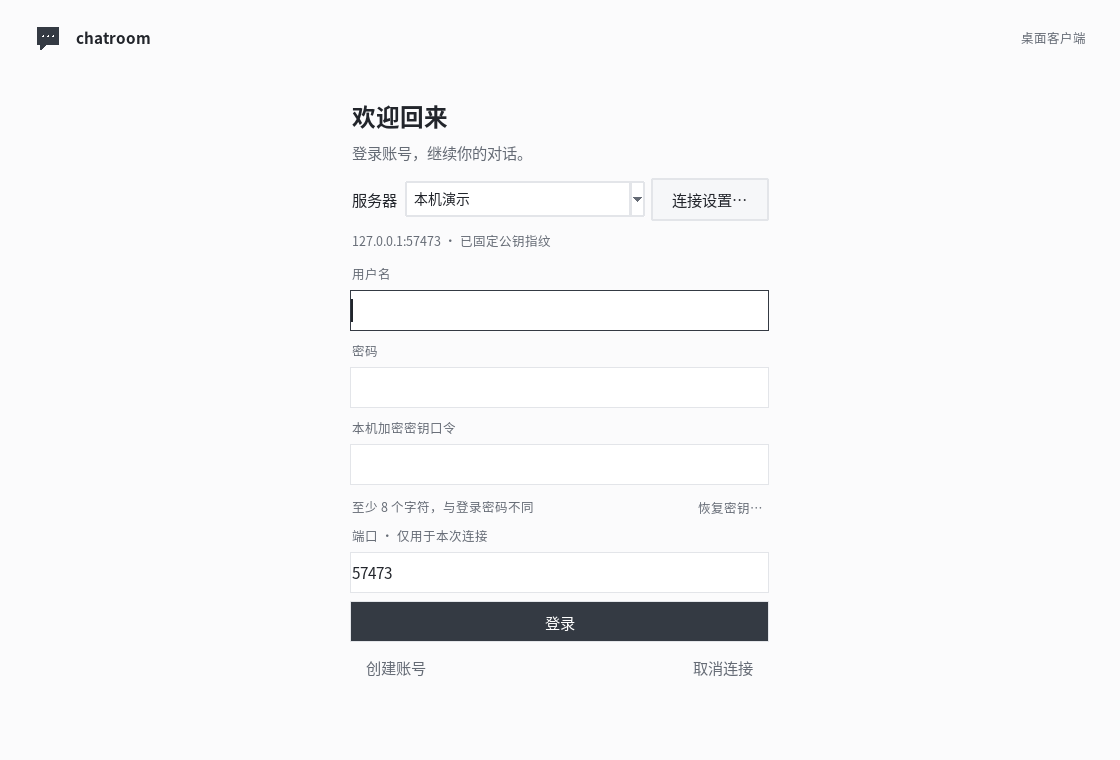
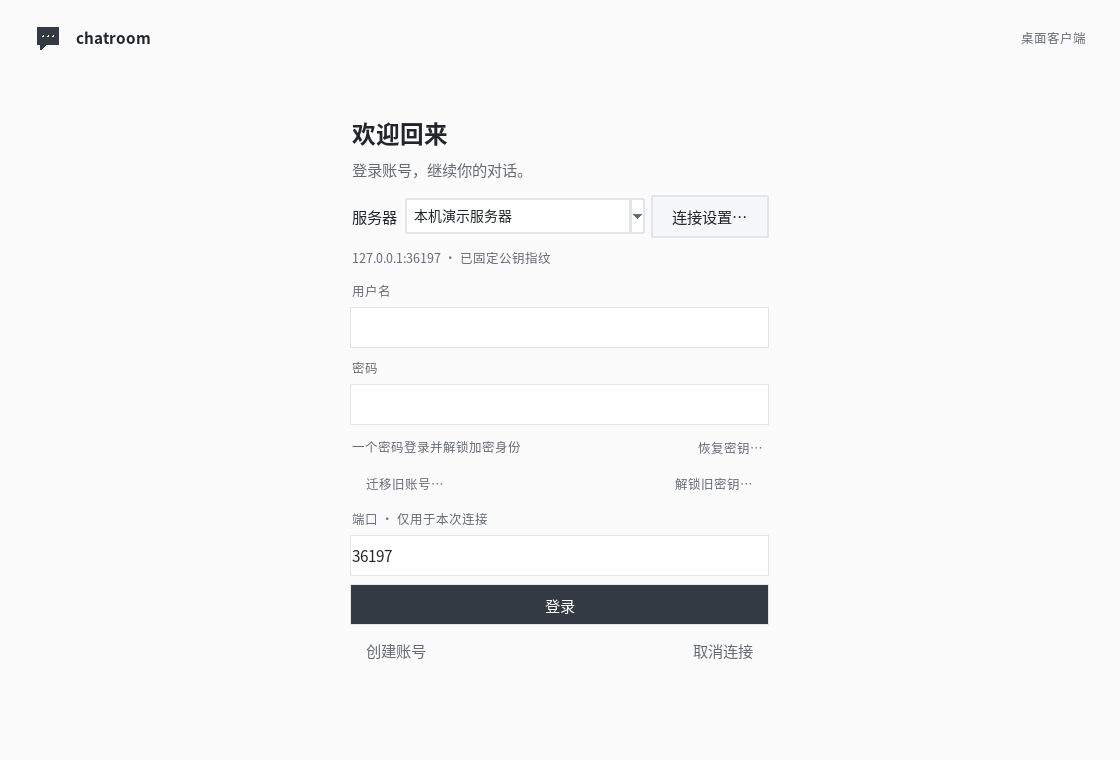
Refresh README screenshots for the v1.3.0 single-password client

diff --git a/docs/images/README.md b/docs/images/README.md
@@ -1,24 +1,21 @@
 # 界面截图 / Interface screenshots
 
-**历史截图：以下为 v1.2.1，包含旧版独立本机口令输入，不作为 v1.3.0 单密码界面截图。新版操作见[单密码指南](../SINGLE_PASSWORD.md)。**
+这些图片是已发布 v1.3.0 客户端的真实窗口截图，展示单密码登录、旧账号迁移与旧密钥解锁入口、双栏会话布局、可收起的在线用户面板及端到端加密消息。具体操作见[单密码指南](../SINGLE_PASSWORD.md)。
 
-**Historical captures: these v1.2.1 images include the former separate local passphrase and do not illustrate the v1.3.0 single-password interface. See the [single-password guide](../SINGLE_PASSWORD.md).**
+These real window captures show the released v1.3.0 client: single-password login, explicit legacy-account migration and legacy-key unlock entries, two-column conversations, a collapsible online-users panel, and end-to-end encrypted messages. See the [single-password guide](../SINGLE_PASSWORD.md).
 
-这些图片是 v1.2.1 雾白与石墨桌面界面的真实窗口截图，展示统一的登录表单、双栏会话布局、可收起的在线用户面板及端到端加密消息。
-
-These real window captures show the v1.2.1 fog-white and graphite desktop interface: a consistent login form, two-column conversations, a collapsible online-users panel and end-to-end encrypted messages.
-
-- 采集日期 / Capture date: 2026-10-21
-- 客户端 / Client: v1.2.1, UI source included in the `v1.2.1` release
-- 环境 / Environment: Linux, Python 3.13, Tk 8.6, 1120 × 760 client window
-- [登录 / Login](login.png): server profiles, local key passphrase and key restore entry
+- 采集日期 / Capture date: 2026-10-22
+- 客户端 / Client: v1.3.0
+- 源码 / Source: [38699452cda8d5cbdd8d50d1efdb762b18de874d](https://github.com/starryuchuu/chatroom/commit/38699452cda8d5cbdd8d50d1efdb762b18de874d), the released v1.3.0 source
+- 环境 / Environment: Linux, Python 3.13.5, Tk 8.6.16, 1120 × 760 client window
+- [登录 / Login](login.png): single-password login and server profiles, with “迁移旧账号…” (migrate legacy account), “解锁旧密钥…” (unlock legacy keys), and key recovery entries
 - [主界面 / Main](main.png): friends, groups, unread previews, notification controls and encryption status
 - [聊天 / Chat](chat.png): messages delivered using real end-to-end encryption, with the key management entry visible
 
-采集时使用临时本地 Python 服务端、独立配置目录和新生成的演示密钥。`alice`、`bob`、`carol`、群组和消息均为虚构数据；地址为本机回环地址。截图仅包含应用窗口，不含桌面、个人账号、私人聊天、密码、私钥或文件路径。PNG 不附带文本或拍摄元数据。
+采集时使用临时本地 Python 服务端、全新的独立配置和演示密钥。`demo_alice`、`demo_bob`、`demo_carol`、群组和消息均为虚构数据；地址为本机回环地址。截图仅包含应用窗口，不含桌面、个人账号、私人聊天、密码、私钥、个人姓名、个人邮箱或文件路径。PNG 不附带文本或拍摄元数据。
 
-Capture used a temporary local Python server, isolated client settings and newly generated demo keys. `alice`, `bob`, `carol`, the group and all messages are synthetic. Only the application window is captured, using a loopback address; no desktop, personal accounts, private conversations, passwords, private keys or file paths are shown. PNG files carry no text or capture metadata.
+Capture uses a temporary local Python server, fresh isolated settings and newly generated demo keys. `demo_alice`, `demo_bob`, `demo_carol`, the group and all messages are synthetic. Only the application window is captured, using a loopback address; no desktop, personal accounts, private conversations, passwords, private keys, personal names, email addresses or file paths are shown. PNG files carry no text or capture metadata.
 
-重新采集时，应从当前源码启动客户端，使用新的临时演示账号和配置，分别拍摄空白登录页、收到演示消息后的主界面及真实加密消息往返后的聊天页。保留实际控件与状态，不将联系人首次信任标记为已核对；逐张检查隐私和文字可读性，并同步更新中英文 README 与此处的采集日期和源码版本。
+重新采集时，应从已标明版本的源码启动客户端，使用新的临时演示账号和配置，分别拍摄空白登录页、收到演示消息后的主界面及真实加密消息往返后的聊天页。保留实际控件与状态，不将联系人首次信任标记为已核对；逐张检查隐私和文字可读性，并同步更新中英文 README 与此处的采集日期、环境和源码版本。
 
-To refresh these images, run the current client with fresh temporary demo accounts and settings. Capture the empty login page, the main view after receiving demo messages, and a conversation after a real encrypted exchange. Preserve the actual controls and status, including unverified contact trust. Review privacy and readability, then update both READMEs and the date and source revision here.
+To refresh these images, run the documented source revision with fresh temporary demo accounts and settings. Capture the empty login page, the main view after receiving demo messages, and a conversation after a real encrypted exchange. Preserve the actual controls and status, including unverified contact trust. Review privacy and readability, then update both READMEs and the date, environment and source revision here.

diff --git a/RELEASE_NOTES.md b/RELEASE_NOTES.md
@@ -26,6 +26,6 @@
 - Python 新增固定运行时依赖 `wasmtime==50.0.1`；Go 使用 `wazero` 执行同一核心。普通源码包已包含预编译 `.wasm`，运行 Python 只需安装 `requirements.txt`，无需 Rust。开发者重建核心需 Rust 1.87+ 和 `wasm32-unknown-unknown`，执行 `python scripts/build_opaque.py` 后同步更新两份 WASM。
 - 服务端自动建立 `opaque_meta` 与 `opaque_accounts`，OPAQUE setup、账号记录和加密身份备份继续受现有存储密钥保护。已有 OPAQUE 账号却缺少 setup 时拒绝启动；恢复或切换 Python / Go 必须保留同一数据库、存储密钥及 RSA 身份，禁止交给旧服务端运行。
 - 尚未迁移的账号保留显式旧协议兼容路径；原有端到端身份的明文降级限制仍生效。旧历史保留且不会追溯加密。v1.3.0 正常客户端不能连接 v1.2.x 或更早的服务端。
-- Windows / Linux 客户端、Python 服务端和 Go 多平台附件随发布工作流构建，位于 [v1.3.0 发布页](https://github.com/starryuchuu/chatroom/releases/tag/v1.3.0)；源码包为 `chatroom-v1.3.0-client.zip` 和 `chatroom-v1.3.0-source.zip`，下载后使用同页 `SHA256SUMS` 校验。当前 README 截图保留自 v1.2.1，展示旧界面，不作为新版单密码流程截图。
+- Windows / Linux 客户端、Python 服务端和 Go 多平台附件随发布工作流构建，位于 [v1.3.0 发布页](https://github.com/starryuchuu/chatroom/releases/tag/v1.3.0)；源码包为 `chatroom-v1.3.0-client.zip` 和 `chatroom-v1.3.0-source.zip`，下载后使用同页 `SHA256SUMS` 校验。README 截图已于 2026-10-22 从已发布 v1.3.0 源码实拍更新，展示单密码登录、旧账号迁移与旧密钥解锁入口；拍摄环境与演示数据见[截图说明](https://github.com/starryuchuu/chatroom/blob/master/docs/images/README.md)。
 
 使用步骤与恢复边界见[单密码指南](https://github.com/starryuchuu/chatroom/blob/master/docs/SINGLE_PASSWORD.md)和[端到端加密说明](https://github.com/starryuchuu/chatroom/blob/master/docs/END_TO_END_ENCRYPTION.md)。

diff --git a/README_en.md b/README_en.md
@@ -40,13 +40,13 @@ This project implements an encrypted desktop chat room with Python and Go server
 
 - 🖼 **Interface Showcase**
   - Login Interface
-    ![Historical v1.2.1 login interface with a separate local encryption passphrase](docs/images/login.png)
+    ![v1.3.0 single-password login with legacy account migration and old-key unlock actions](docs/images/login.png)
   - Main Page
     ![Main interface with unread counts, conversation previews and notifications](docs/images/main.png)
   - Chat Interface
     ![Chat interface with end-to-end encrypted messages and key management](docs/images/chat.png)
 
-  These are historical v1.2.1 Linux screenshots captured on 2026-10-21. The separate local passphrase shown there is not part of normal v1.3.0 login. They have not yet been replaced with v1.3.0 screenshots. Accounts, groups and messages are synthetic demo data on a loopback connection. Fonts and window appearance vary by operating system. See [screenshot notes](docs/images/README.md).
+  Captured from the released v1.3.0 source (`38699452cda8d5cbdd8d50d1efdb762b18de874d`) on 2026-10-22, using Linux, Python 3.13.5, Tk 8.6.16 and 1120 × 760 windows. The login screen shows one password field and the **迁移旧账号…** and **解锁旧密钥…** actions. The demo uses a temporary local Python server, fresh keys and configuration, and synthetic accounts `demo_alice`, `demo_bob` and `demo_carol`. Fonts and window appearance vary by operating system. See [screenshot notes](docs/images/README.md).
 
 - 🛠 **Technical Stack**
   - Python 3.11+ (Client/Server)

diff --git a/README.md b/README.md
@@ -29,9 +29,9 @@
 
 | 登录界面 | 主界面 | 聊天界面 |
 |---------|--------|---------|
-| ![登录界面：服务器配置与本机加密密钥口令](docs/images/login.png) | ![主界面：未读计数、会话摘要和消息提醒](docs/images/main.png) | ![聊天界面：端到端加密消息与密钥管理入口](docs/images/chat.png) |
+| ![v1.3.0 登录界面：单密码登录、旧账号迁移与旧密钥解锁入口](docs/images/login.png) | ![主界面：未读计数、会话摘要和消息提醒](docs/images/main.png) | ![聊天界面：端到端加密消息与密钥管理入口](docs/images/chat.png) |
 
-以下截图于 2026-10-21 使用 v1.2.1 客户端在 Linux 上实拍，保留旧版双口令界面，**不是 v1.3.0 单密码流程截图**。其展示服务器配置、旧本机密钥口令、未读摘要和端到端加密聊天。账号、群组和消息均为虚构演示数据，连接地址仅为本机回环地址；不同系统的字体和窗口外观可能有所差异。详见[截图说明](docs/images/README.md)。
+以下截图于 2026-10-22 使用已发布的 v1.3.0 客户端在 Linux 上实拍，展示单密码登录、“迁移旧账号…”与“解锁旧密钥…”入口、未读摘要和端到端加密聊天。拍摄环境为 Python 3.13.5、Tk 8.6.16，窗口大小为 1120 × 760。使用临时本地 Python 服务端、全新配置和演示密钥；`demo_alice`、`demo_bob`、`demo_carol`、群组和消息均为虚构数据。源码版本与截图隐私说明见[截图说明](docs/images/README.md)。
 
 ---
 

diff --git a/docs/README.md b/docs/README.md
@@ -33,6 +33,6 @@ Run commands from the repository root unless a command explicitly changes direct
 
 These reports document checks for specific releases. Refer to the current guides and release notes for current behavior and limits.
 
-界面截图位于 [images/](images/)，目前保留 v1.2.1 历史界面，不代表 v1.3.0 的单密码流程。新增指南、设计说明和截图统一放在本目录，历史验证材料放在 `reviews/`。
+界面截图位于 [images/](images/)，于 2026-10-22 从已发布 v1.3.0 实拍，展示单密码登录及迁移、旧密钥解锁入口。新增指南、设计说明和截图统一放在本目录，历史验证材料放在 `reviews/`。
 
-Screenshots are in [images/](images/); the current captures show the historical v1.2.1 interface, not the v1.3.0 single-password flow. Keep guides, design notes and screenshots here, and historical validation reports in `reviews/`.
+Screenshots in [images/](images/) were captured from the released v1.3.0 on 2026-10-22 and show single-password login, legacy migration and legacy-key unlock entries. Keep guides, design notes and screenshots here, and historical validation reports in `reviews/`.

diff --git a/docs/SINGLE_PASSWORD.md b/docs/SINGLE_PASSWORD.md
@@ -74,4 +74,4 @@ python scripts/build_opaque.py
 
 脚本使用锁定依赖构建，并更新 Python 与 Go 的两份模块；发布前需要验证两份 SHA-256 一致。核心使用 `opaque-ke=4.0.1`、[RFC 9807](https://www.rfc-editor.org/rfc/rfc9807.html)、Ristretto255 / TripleDH-SHA512 和 Argon2id。上游 [opaque-ke](https://github.com/facebook/opaque-ke#readme) 有历史审计记录，其报告针对早期版本；不能据此声称 4.0.1、WASM 包装或本聊天室集成经过独立审计。OPAQUE 也不能把弱密码变成高熵秘密，或保护已被控制的客户端。
 
-消息密钥、群成员变化、首次信任及无长期前向保密等限制见[端到端加密说明](END_TO_END_ENCRYPTION.md)。现有[截图](images/README.md)来自 v1.2.1，保留的是旧版双口令界面。
+消息密钥、群成员变化、首次信任及无长期前向保密等限制见[端到端加密说明](END_TO_END_ENCRYPTION.md)。现有[截图](images/README.md)于 2026-10-22 从已发布的 v1.3.0 实拍，展示单密码登录、“迁移旧账号…”和“解锁旧密钥…”入口。
